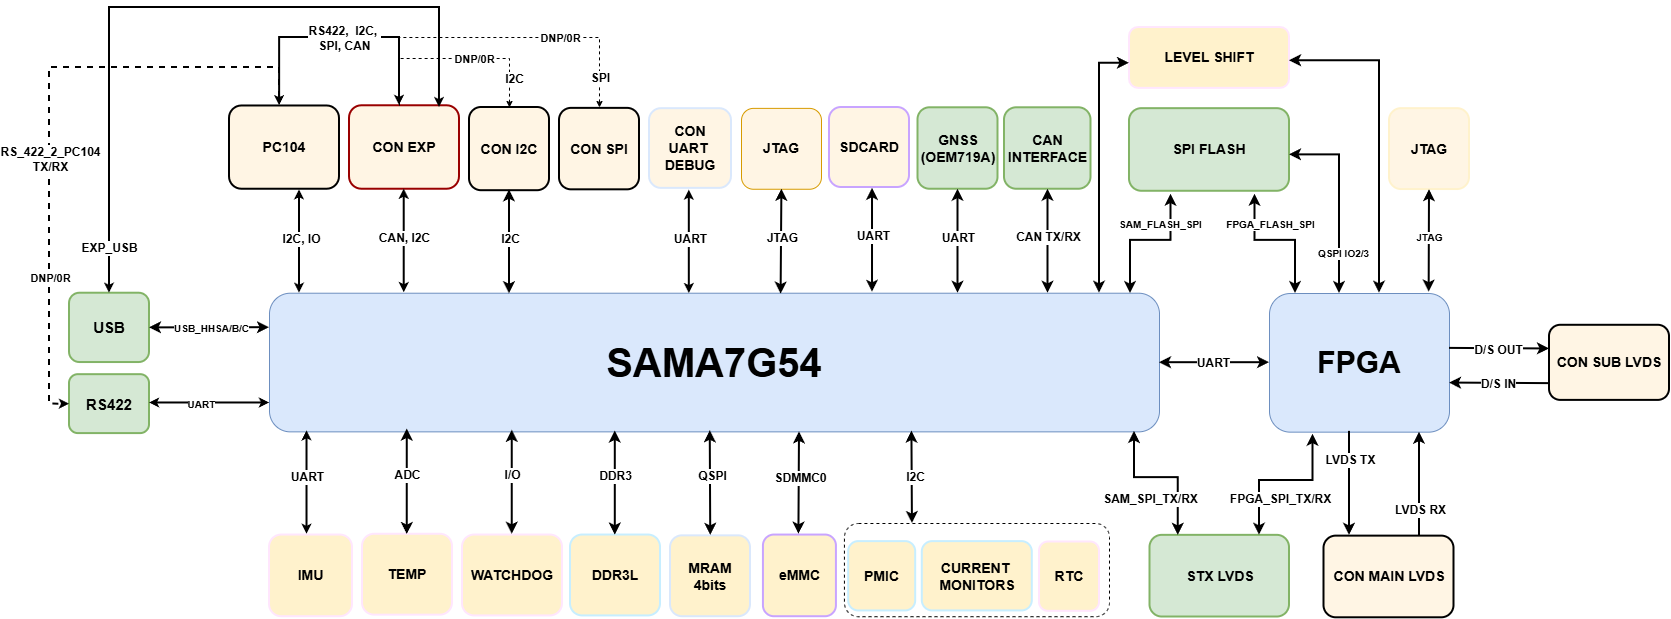
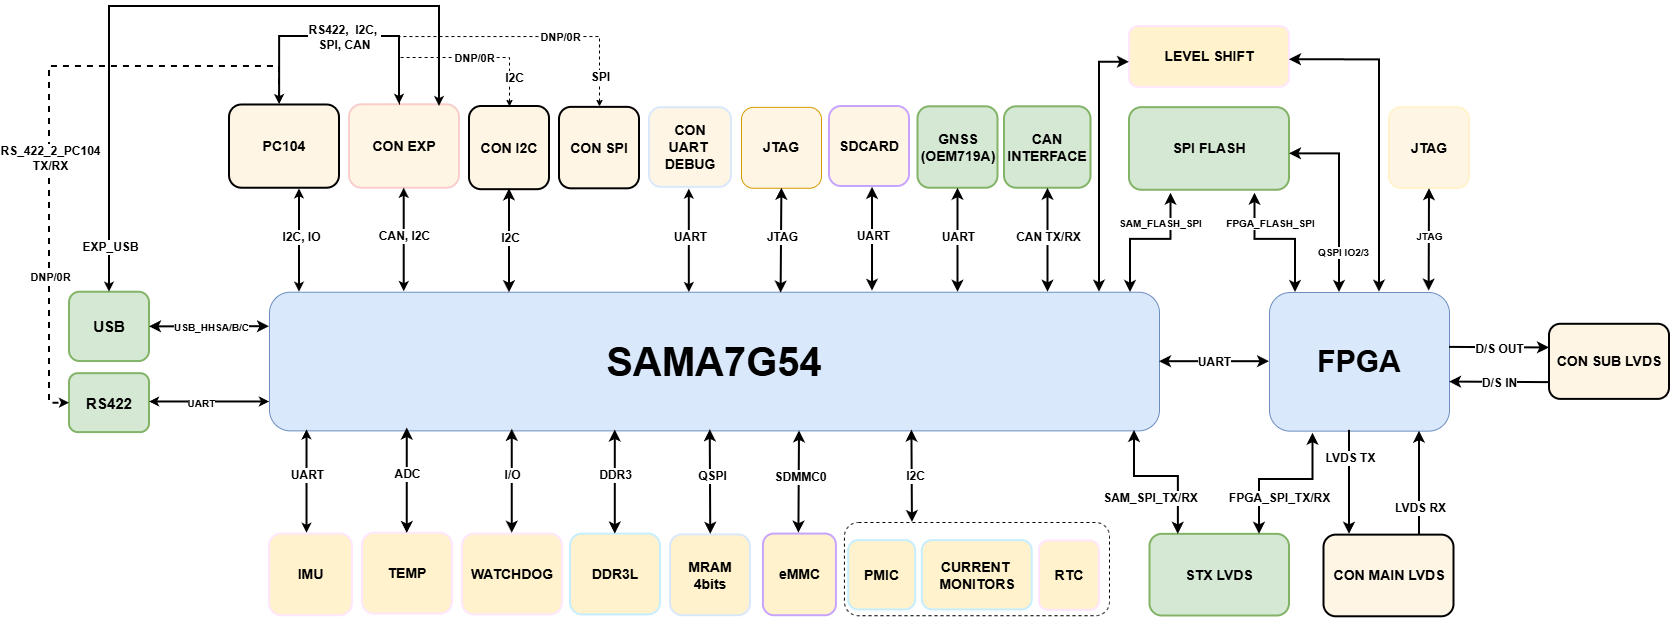
add power tree

diff --git a/chapters/chuong7.tex b/chapters/chuong7.tex
@@ -1,0 +1,18 @@
+\chapter{Tài liệu tham khảo}
+\label{ch:tai-lieu-tham-khao}
+
+Trong mục này, sinh viên liệt kê những tài liệu đã tham khảo khi thực hiện đề tài luận văn. Những nội dung trình bày ở các mục trước có tham khảo tài liệu thì sinh viên cần ghi chú bằng chỉ số (ví dụ [1], [2], [3]). Chỉ số này cần tương ứng với danh mục tài liệu tham khảo. Sinh viên trình bày tài liệu tham khảo theo định dạng thống nhất.
+
+\begingroup
+\sloppy
+\def\UrlBreaks{\do\/\do-\do\_}
+\begin{enumerate}
+    \item Juan Del Pino Mena, ``Development of a CubeSat Payload for In-Orbit Computing and LoRa Communications'', Master's Thesis, Universitat Polit\`ecnica de Val\`encia, 2025.
+
+    \item K.-P. Bouzoukis, G. Moraitis, V. Kostopoulos and V. Lappas, ``An Overview of CubeSat Missions and Applications'', \textit{Aerospace}, vol. 12, no. 6, art. 550, 2025, doi:10.3390/aerospace12060550.
+
+    \item European Space Agency / eoPortal, ``CubeSat Concept'', \url{https://www.eoportal.org/other-space-activities/cubesat-concept}.
+
+    \item I. Gonzalez-Rua and M. Diz-Folgar, ``Implementing the CubeSat Space Protocol for Multiple Embedded Systems in Satellite Applications'', presented at the \textit{Small Satellites \& Services International Forum 2024}, 2024, doi:10.13140/RG.2.2.29500.21124.
+\end{enumerate}
+\endgroup

diff --git a/chapters/chuong1.tex b/chapters/chuong1.tex
@@ -37,7 +37,7 @@ Xuất phát từ những nhu cầu trên, đề tài “Thiết kế mô đun t
 
 \begin{itemize}
     \item \textbf{Thiết kế phần cứng:} Xây dựng cấu trúc PCB đa lớp sử dụng Altium Designer.
-    \item \textbf{Hệ thống nhúng:} Phát triển driver và firmware cho vi điều khiển SAMV71.
+    \item \textbf{Hệ thống nhúng:} Phát triển driver và firmware cho vi điều khiển SAMV71, SAMA7G54.
     \item \textbf{Xử lý dữ liệu:} Tối ưu hóa thuật toán xử lý dữ liệu ngay trên vệ tinh.
 \end{itemize}
 
@@ -53,8 +53,9 @@ Nội dung đồ án bao gồm các chương sau:
 \begin{itemize}
     \item \textbf{Chương 2:} Cơ sở lý thuyết về hệ thống vệ tinh và vệ tinh nhỏ.
     \item \textbf{Chương 3:} Thiết kế chi tiết phần cứng hệ thống.
-    \item \textbf{Chương 4:} Xây dựng phần mềm và thuật toán điều khiển nhúng.
-    \item \textbf{Chương 5:} Thực nghiệm, đánh giá kết quả và hướng phát triển.
+    \item \textbf{Chương 4:} Thiết kế và thực hiện phần mềm.
+    \item \textbf{Chương 5:} Kết quả thực hiện.
+    \item \textbf{Chương 6:} Kết luận và hướng phát triển.
+    \item \textbf{Chương 7:} Tài liệu tham khảo.
 \end{itemize}
-
 \newpage

diff --git a/chapters/loicamon.tex b/chapters/loicamon.tex
@@ -16,7 +16,7 @@ Trước hết, chúng em cũng xin cảm ơn Nhà trường và Khoa đã tạo
 
 Đặc biệt, chúng em xin chân thành cảm ơn thầy hướng dẫn, ThS. Bùi Quốc Bảo đã dành nhiều thời gian góp ý, chỉnh sửa và định hướng cho chúng em từ khi bắt đầu đến lúc hoàn thiện đồ án. Trong quá trình làm đề tài, có nhiều lúc chúng em gặp khó khăn về cách triển khai và trình bày, nhưng thầy luôn kiên nhẫn hướng dẫn để chúng em từng bước tháo gỡ vấn đề.
 
-Bên cạnh đó, chúng em cũng chân thành cảm ơn anh Huỳnh Thanh Sang, anh Cao Văn Hiếu và tập thể thành viên lab 209B3 đã nhiệt tình hỗ trợ chúng em trong quá trình làm đồ án.
+Bên cạnh đó, chúng em cũng chân thành cảm ơn anh Thanh Sang, anh Văn Hiếu, em Huy Hưng và tập thể thành viên lab 209B3 đã nhiệt tình hỗ trợ chúng em trong quá trình làm đồ án.
 
 Mặc dù đã cố gắng hết sức, đồ án chắc chắn vẫn còn những hạn chế nhất định. Chúng em rất mong nhận được thêm những ý kiến đóng góp từ quý thầy cô để có thể tiếp tục hoàn thiện hơn trong thời gian tới.
 

diff --git a/chapters/chuong5.tex b/chapters/chuong5.tex
@@ -1,1 +1,6 @@
-Mô tả thực nghiệm, số liệu thu thập, bảng biểu, đồ thị, phân tích kết quả và so sánh với yêu cầu.
+% ==========================================================
+% CHƯƠNG 5: KẾT QUẢ THỰC HIỆN
+% ==========================================================
+
+\chapter{Kết quả thực hiện}
+\label{ch:ket-qua}

diff --git a/chapters/chuong6.tex b/chapters/chuong6.tex
@@ -1,0 +1,6 @@
+% ==========================================================
+% CHƯƠNG 6: KẾT LUẬN VÀ HƯỚNG PHÁT TRIỂN
+% ==========================================================
+
+\chapter{Kết luận và hướng phát triển}
+\label{ch:ket-luan-huong-phat-trien}

diff --git a/main.tex b/main.tex
@@ -75,6 +75,8 @@
 \include{chapters/chuong3}
 \include{chapters/chuong4}
 \include{chapters/chuong5}
+\include{chapters/chuong6}
+\include{chapters/chuong7}
 
 \newpage
 \phantomsection
